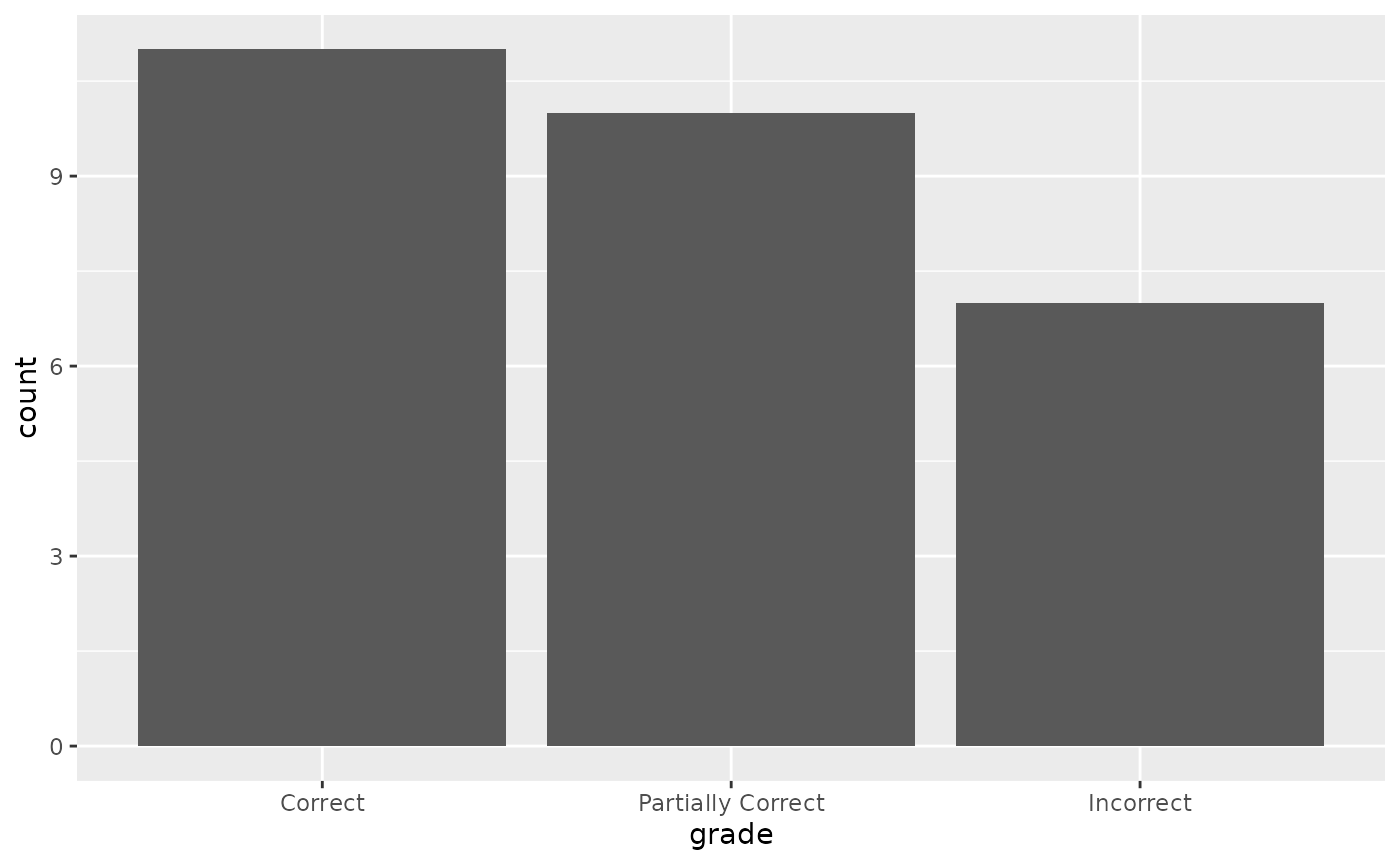
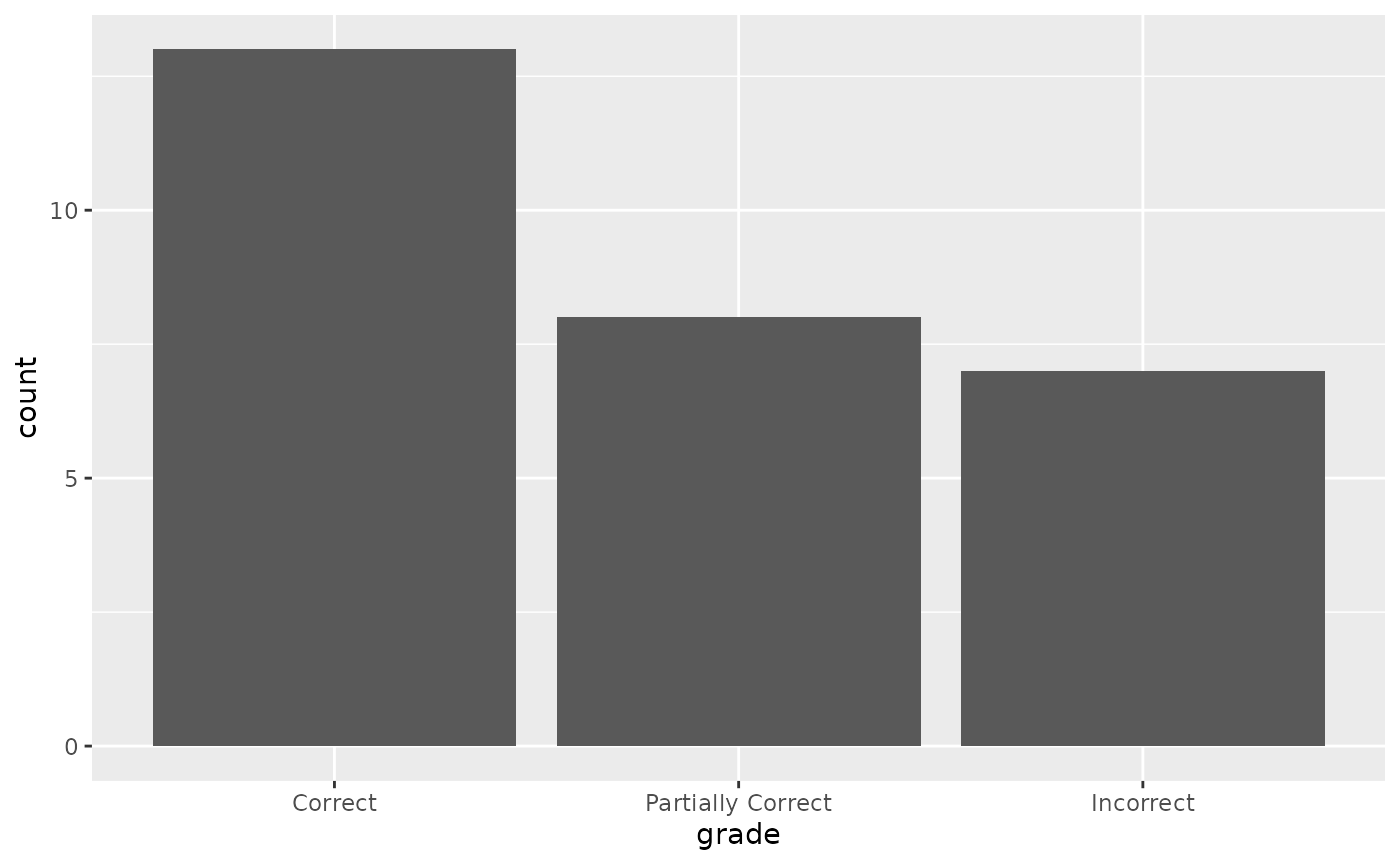
Deploying to gh-pages from @ simonpcouch/rinspect@f6243ad39c7b70e5270ee716d52705afe6b29448 🚀

diff --git a/reference/inspect_compare.html b/reference/inspect_compare.html
@@ -1,0 +1,133 @@
+<!DOCTYPE html>
+<!-- Generated by pkgdown: do not edit by hand --><html lang="en"><head><meta http-equiv="Content-Type" content="text/html; charset=UTF-8"><meta charset="utf-8"><meta http-equiv="X-UA-Compatible" content="IE=edge"><meta name="viewport" content="width=device-width, initial-scale=1, shrink-to-fit=no"><title>Compare two task evaluations — inspect_compare • rinspect</title><script src="../deps/jquery-3.6.0/jquery-3.6.0.min.js"></script><meta name="viewport" content="width=device-width, initial-scale=1, shrink-to-fit=no"><link href="../deps/bootstrap-5.3.1/bootstrap.min.css" rel="stylesheet"><script src="../deps/bootstrap-5.3.1/bootstrap.bundle.min.js"></script><link href="../deps/font-awesome-6.5.2/css/all.min.css" rel="stylesheet"><link href="../deps/font-awesome-6.5.2/css/v4-shims.min.css" rel="stylesheet"><script src="../deps/headroom-0.11.0/headroom.min.js"></script><script src="../deps/headroom-0.11.0/jQuery.headroom.min.js"></script><script src="../deps/bootstrap-toc-1.0.1/bootstrap-toc.min.js"></script><script src="../deps/clipboard.js-2.0.11/clipboard.min.js"></script><script src="../deps/search-1.0.0/autocomplete.jquery.min.js"></script><script src="../deps/search-1.0.0/fuse.min.js"></script><script src="../deps/search-1.0.0/mark.min.js"></script><!-- pkgdown --><script src="../pkgdown.js"></script><meta property="og:title" content="Compare two task evaluations — inspect_compare"><meta name="description" content="Compares performance metrics between two evaluations and calculates
+statistical measures of their differences."><meta property="og:description" content="Compares performance metrics between two evaluations and calculates
+statistical measures of their differences."></head><body>
+    <a href="#main" class="visually-hidden-focusable">Skip to contents</a>
+
+
+    <nav class="navbar navbar-expand-lg fixed-top bg-light" data-bs-theme="light" aria-label="Site navigation"><div class="container">
+
+    <a class="navbar-brand me-2" href="../index.html">rinspect</a>
+
+    <small class="nav-text text-muted me-auto" data-bs-toggle="tooltip" data-bs-placement="bottom" title="">0.0.0.9001</small>
+
+
+    <button class="navbar-toggler" type="button" data-bs-toggle="collapse" data-bs-target="#navbar" aria-controls="navbar" aria-expanded="false" aria-label="Toggle navigation">
+      <span class="navbar-toggler-icon"></span>
+    </button>
+
+    <div id="navbar" class="collapse navbar-collapse ms-3">
+      <ul class="navbar-nav me-auto"><li class="nav-item"><a class="nav-link" href="../articles/rinspect.html">Get started</a></li>
+<li class="active nav-item"><a class="nav-link" href="../reference/index.html">Reference</a></li>
+      </ul><ul class="navbar-nav"><li class="nav-item"><form class="form-inline" role="search">
+ <input class="form-control" type="search" name="search-input" id="search-input" autocomplete="off" aria-label="Search site" placeholder="Search for" data-search-index="../search.json"></form></li>
+<li class="nav-item"><a class="external-link nav-link" href="https://github.com/simonpcouch/rinspect/" aria-label="GitHub"><span class="fa fab fa-github fa-lg"></span></a></li>
+      </ul></div>
+
+
+  </div>
+</nav><div class="container template-reference-topic">
+<div class="row">
+  <main id="main" class="col-md-9"><div class="page-header">
+
+      <h1>Compare two task evaluations</h1>
+      <small class="dont-index">Source: <a href="https://github.com/simonpcouch/rinspect/blob/main/R/compare.R" class="external-link"><code>R/compare.R</code></a></small>
+      <div class="d-none name"><code>inspect_compare.Rd</code></div>
+    </div>
+
+    <div class="ref-description section level2">
+    <p>Compares performance metrics between two evaluations and calculates
+statistical measures of their differences.</p>
+    </div>
+
+    <div class="section level2">
+    <h2 id="ref-usage">Usage<a class="anchor" aria-label="anchor" href="#ref-usage"></a></h2>
+    <div class="sourceCode"><pre class="sourceCode r"><code><span><span class="fu">inspect_compare</span><span class="op">(</span><span class="va">x</span>, <span class="va">y</span>, conf_level <span class="op">=</span> <span class="fl">0.95</span><span class="op">)</span></span></code></pre></div>
+    </div>
+
+    <div class="section level2">
+    <h2 id="arguments">Arguments<a class="anchor" aria-label="anchor" href="#arguments"></a></h2>
+
+
+<dl><dt id="arg-x-y">x, y<a class="anchor" aria-label="anchor" href="#arg-x-y"></a></dt>
+<dd><p><a href="Task.html">Task</a> objects arising from the same call to <code>Task$new()</code>.</p></dd>
+
+
+<dt id="arg-conf-level">conf_level<a class="anchor" aria-label="anchor" href="#arg-conf-level"></a></dt>
+<dd><p>Optional. A single numeric value between 0 and 1
+representing the confidence level. Defaults to 0.95.</p></dd>
+
+</dl></div>
+    <div class="section level2">
+    <h2 id="value">Value<a class="anchor" aria-label="anchor" href="#value"></a></h2>
+    <p>A list containing statistics comparing the two task results</p><ul><li><p><code>mean_x</code>: The mean score of the first task evaluation (<code>x</code>).</p></li>
+<li><p><code>mean_y</code>: The mean score of the second task evaluation (<code>y</code>).</p></li>
+<li><p><code>mean_diff</code>: The mean difference between scores (<code>x</code> - <code>y</code>).</p></li>
+<li><p><code>paired_se</code>: The standard error of the paired differences.</p></li>
+<li><p><code>conf_int</code>: A vector containing the lower and upper bounds of the
+confidence interval for the mean difference.</p></li>
+</ul><p>The function will error if the tasks have different
+<code>task_id</code>s or different numbers of samples.</p>
+    </div>
+    <div class="section level2">
+    <h2 id="details">Details<a class="anchor" aria-label="anchor" href="#details"></a></h2>
+    <p>The statistics reported here are based on Section 4, <em>Comparing models</em> in
+"Adding Error Bars to Evals: A Statistical Approach to Language Model
+Evaluations." Miller (2024), <a href="https://arxiv.org/abs/2411.00640" class="external-link">https://arxiv.org/abs/2411.00640</a>.</p>
+<p>Notably, confidence intervals are based on Equations (7) and (5) with
+no clustering variable, and Equation (8) with clustering variables.
+Epochs are treated as clustering variables, i.e. multiple samples based on
+a given question are considered clustered.</p>
+    </div>
+
+    <div class="section level2">
+    <h2 id="ref-examples">Examples<a class="anchor" aria-label="anchor" href="#ref-examples"></a></h2>
+    <div class="sourceCode"><pre class="sourceCode r"><code><span class="r-in"><span><span class="kw">if</span> <span class="op">(</span><span class="op">!</span><span class="fu"><a href="https://rdrr.io/r/base/identical.html" class="external-link">identical</a></span><span class="op">(</span><span class="fu"><a href="https://rdrr.io/r/base/Sys.getenv.html" class="external-link">Sys.getenv</a></span><span class="op">(</span><span class="st">"ANTHROPIC_API_KEY"</span><span class="op">)</span>, <span class="st">""</span><span class="op">)</span> <span class="op">&amp;&amp;</span></span></span>
+<span class="r-in"><span>    <span class="op">!</span><span class="fu"><a href="https://rdrr.io/r/base/identical.html" class="external-link">identical</a></span><span class="op">(</span><span class="fu"><a href="https://rdrr.io/r/base/Sys.getenv.html" class="external-link">Sys.getenv</a></span><span class="op">(</span><span class="st">"OPENAI_API_KEY"</span><span class="op">)</span>, <span class="st">""</span><span class="op">)</span><span class="op">)</span> <span class="op">{</span></span></span>
+<span class="r-in"><span>  <span class="kw"><a href="https://rdrr.io/r/base/library.html" class="external-link">library</a></span><span class="op">(</span><span class="va"><a href="https://ellmer.tidyverse.org" class="external-link">ellmer</a></span><span class="op">)</span></span></span>
+<span class="r-in"><span>  <span class="kw"><a href="https://rdrr.io/r/base/library.html" class="external-link">library</a></span><span class="op">(</span><span class="va"><a href="https://tibble.tidyverse.org/" class="external-link">tibble</a></span><span class="op">)</span></span></span>
+<span class="r-in"><span></span></span>
+<span class="r-in"><span>  <span class="va">simple_addition</span> <span class="op">&lt;-</span> <span class="fu"><a href="https://tibble.tidyverse.org/reference/tibble.html" class="external-link">tibble</a></span><span class="op">(</span></span></span>
+<span class="r-in"><span>    input <span class="op">=</span> <span class="fu"><a href="https://rdrr.io/r/base/c.html" class="external-link">c</a></span><span class="op">(</span><span class="st">"What's 2+2?"</span>, <span class="st">"What's 2+3?"</span><span class="op">)</span>,</span></span>
+<span class="r-in"><span>    target <span class="op">=</span> <span class="fu"><a href="https://rdrr.io/r/base/c.html" class="external-link">c</a></span><span class="op">(</span><span class="st">"4"</span>, <span class="st">"5"</span><span class="op">)</span></span></span>
+<span class="r-in"><span>  <span class="op">)</span></span></span>
+<span class="r-in"><span></span></span>
+<span class="r-in"><span>  <span class="co"># notably, both of the evaluations passed to `inspect_compare()`</span></span></span>
+<span class="r-in"><span>  <span class="co"># will be based on the same call to `Task$new()`</span></span></span>
+<span class="r-in"><span>  <span class="va">tsk</span> <span class="op">&lt;-</span> <span class="va"><a href="Task.html">Task</a></span><span class="op">$</span><span class="fu">new</span><span class="op">(</span></span></span>
+<span class="r-in"><span>    dataset <span class="op">=</span> <span class="va">simple_addition</span>,</span></span>
+<span class="r-in"><span>    solver <span class="op">=</span> <span class="fu"><a href="generate.html">generate</a></span><span class="op">(</span><span class="op">)</span>,</span></span>
+<span class="r-in"><span>    scorer <span class="op">=</span> <span class="fu"><a href="scorer_model.html">model_graded_qa</a></span><span class="op">(</span><span class="op">)</span></span></span>
+<span class="r-in"><span>  <span class="op">)</span></span></span>
+<span class="r-in"><span></span></span>
+<span class="r-in"><span>  <span class="va">tsk_claude</span> <span class="op">&lt;-</span> <span class="va">tsk</span><span class="op">$</span><span class="fu">clone</span><span class="op">(</span><span class="op">)</span></span></span>
+<span class="r-in"><span>  <span class="va">tsk_claude</span><span class="op">$</span><span class="fu">eval</span><span class="op">(</span>solver_chat <span class="op">=</span> <span class="fu"><a href="https://ellmer.tidyverse.org/reference/chat_claude.html" class="external-link">chat_claude</a></span><span class="op">(</span><span class="op">)</span><span class="op">)</span></span></span>
+<span class="r-in"><span></span></span>
+<span class="r-in"><span>  <span class="va">tsk_openai</span> <span class="op">&lt;-</span> <span class="va">tsk</span><span class="op">$</span><span class="fu">clone</span><span class="op">(</span><span class="op">)</span></span></span>
+<span class="r-in"><span>  <span class="va">tsk_openai</span><span class="op">$</span><span class="fu">eval</span><span class="op">(</span>solver_chat <span class="op">=</span> <span class="fu"><a href="https://ellmer.tidyverse.org/reference/chat_openai.html" class="external-link">chat_openai</a></span><span class="op">(</span><span class="op">)</span><span class="op">)</span></span></span>
+<span class="r-in"><span></span></span>
+<span class="r-in"><span>  <span class="co"># do note that this is a rather silly comparison :)</span></span></span>
+<span class="r-in"><span>  <span class="fu">inspect_compare</span><span class="op">(</span><span class="va">tsk_claude</span>, <span class="va">tsk_openai</span><span class="op">)</span></span></span>
+<span class="r-in"><span><span class="op">}</span></span></span>
+</code></pre></div>
+    </div>
+  </main><aside class="col-md-3"><nav id="toc" aria-label="Table of contents"><h2>On this page</h2>
+    </nav></aside></div>
+
+
+    <footer><div class="pkgdown-footer-left">
+  <p>Developed by Simon Couch, Posit Software, PBC.</p>
+</div>
+
+<div class="pkgdown-footer-right">
+  <p>Site built with <a href="https://pkgdown.r-lib.org/" class="external-link">pkgdown</a> 2.1.1.</p>
+</div>
+
+    </footer></div>
+
+
+
+
+
+  </body></html>
+

diff --git a/articles/rinspect.html b/articles/rinspect.html
@@ -197,24 +197,34 @@ scoring steps. Here’s what the model responded to that first question
 with:</p>
 <div class="sourceCode" id="cb10"><pre class="downlit sourceCode r">
 <code class="sourceCode R"><span><span class="fu"><a href="https://rdrr.io/r/base/cat.html" class="external-link">cat</a></span><span class="op">(</span><span class="va">are_task</span><span class="op">$</span><span class="va">samples</span><span class="op">$</span><span class="va">result</span><span class="op">[</span><span class="fl">1</span><span class="op">]</span><span class="op">)</span></span></code></pre></div>
-<pre><code><span><span class="co">#&gt; I'll modify the code to show the proportion of diamonds with each cut</span></span>
-<span><span class="co">#&gt; instead of the count, while keeping the bars filled by clarity. To</span></span>
-<span><span class="co">#&gt; achieve this, I'll use `position = "fill"` in the `geom_bar()`</span></span>
-<span><span class="co">#&gt; function, which will normalize the heights of the bars so that each bar</span></span>
-<span><span class="co">#&gt; has a height of 1 (representing 100%).</span></span>
+<pre><code><span><span class="co">#&gt; # Converting Count to Proportion in a Stacked Bar Chart</span></span>
+<span><span class="co">#&gt; </span></span>
+<span><span class="co">#&gt; To change the bar chart so that each bar shows the proportion (relative</span></span>
+<span><span class="co">#&gt; frequency) of diamonds with each cut rather than the count, while still</span></span>
+<span><span class="co">#&gt; maintaining the stacked clarity breakdown, you need to modify the code</span></span>
+<span><span class="co">#&gt; to use proportions instead of raw counts.</span></span>
 <span><span class="co">#&gt; </span></span>
 <span><span class="co">#&gt; Here's the modified code:</span></span>
 <span><span class="co">#&gt; </span></span>
 <span><span class="co">#&gt; ```r</span></span>
 <span><span class="co">#&gt; ggplot(data = diamonds) +</span></span>
 <span><span class="co">#&gt; geom_bar(mapping = aes(x = cut, fill = clarity), position = "fill") +</span></span>
-<span><span class="co">#&gt; ylab("Proportion") # Adding a more appropriate y-axis label</span></span>
+<span><span class="co">#&gt; ylab("Proportion") +</span></span>
+<span><span class="co">#&gt; scale_y_continuous(labels = scales::percent)</span></span>
 <span><span class="co">#&gt; ```</span></span>
 <span><span class="co">#&gt; </span></span>
-<span><span class="co">#&gt; This change will make the y-axis represent the proportion (from 0 to 1)</span></span>
-<span><span class="co">#&gt; instead of counts. Each bar will have the same total height (1), and</span></span>
-<span><span class="co">#&gt; the segments within each bar will show the proportional representation</span></span>
-<span><span class="co">#&gt; of each clarity category within that cut.</span></span></code></pre>
+<span><span class="co">#&gt; ## What Changed:</span></span>
+<span><span class="co">#&gt; </span></span>
+<span><span class="co">#&gt; 1. Added `position = "fill"` to `geom_bar()` - This transforms the</span></span>
+<span><span class="co">#&gt; stacking to show proportions that sum to 1 for each cut category</span></span>
+<span><span class="co">#&gt; 2. Added `ylab("Proportion")` - This changes the y-axis label to</span></span>
+<span><span class="co">#&gt; reflect that we're now showing proportions</span></span>
+<span><span class="co">#&gt; 3. Added `scale_y_continuous(labels = scales::percent)` - This formats</span></span>
+<span><span class="co">#&gt; the y-axis values as percentages for better readability</span></span>
+<span><span class="co">#&gt; </span></span>
+<span><span class="co">#&gt; With these changes, each bar will have the same height (100%), and the</span></span>
+<span><span class="co">#&gt; colored segments will show the proportional distribution of clarity</span></span>
+<span><span class="co">#&gt; categories within each cut type.</span></span></code></pre>
 <p>The task also contains score information from the scoring step. We’ve
 used <code><a href="../reference/scorer_model.html">model_graded_qa()</a></code> as our scorer, which uses another
 model to evaluate the quality of our solver’s solutions against the
@@ -236,45 +246,37 @@ scoring. That said, it’s not without its faults. Here’s what the grading
 model thought of the response:</p>
 <div class="sourceCode" id="cb12"><pre class="downlit sourceCode r">
 <code class="sourceCode R"><span><span class="fu"><a href="https://rdrr.io/r/base/cat.html" class="external-link">cat</a></span><span class="op">(</span><span class="va">are_task</span><span class="op">$</span><span class="va">samples</span><span class="op">$</span><span class="va">scorer_chat</span><span class="op">[[</span><span class="fl">1</span><span class="op">]</span><span class="op">]</span><span class="op">$</span><span class="fu">last_turn</span><span class="op">(</span><span class="op">)</span><span class="op">@</span><span class="va">text</span><span class="op">)</span></span></code></pre></div>
-<pre><code><span><span class="co">#&gt; I need to assess whether the submission meets the specified criterion</span></span>
-<span><span class="co">#&gt; for showing the proportion of diamonds with a given cut corresponds to</span></span>
-<span><span class="co">#&gt; the bar height.</span></span>
+<pre><code><span><span class="co">#&gt; I need to evaluate whether the submission correctly addresses the task</span></span>
+<span><span class="co">#&gt; according to the specified criterion.</span></span>
 <span><span class="co">#&gt; </span></span>
-<span><span class="co">#&gt; The criterion states that the correct approach is to use:</span></span>
+<span><span class="co">#&gt; The task asks to change a bar chart so that the proportion of diamonds</span></span>
+<span><span class="co">#&gt; with a given cut corresponds to the bar height, while maintaining the</span></span>
+<span><span class="co">#&gt; clarity breakdown within each bar.</span></span>
+<span><span class="co">#&gt; </span></span>
+<span><span class="co">#&gt; The submission uses:</span></span>
+<span><span class="co">#&gt; ```r</span></span>
+<span><span class="co">#&gt; ggplot(data = diamonds) +</span></span>
+<span><span class="co">#&gt; geom_bar(mapping = aes(x = cut, fill = clarity), position = "fill") +</span></span>
+<span><span class="co">#&gt; ylab("Proportion") +</span></span>
+<span><span class="co">#&gt; scale_y_continuous(labels = scales::percent)</span></span>
 <span><span class="co">#&gt; ```</span></span>
+<span><span class="co">#&gt; </span></span>
+<span><span class="co">#&gt; According to the criterion, this approach is incorrect. Setting</span></span>
+<span><span class="co">#&gt; `position = "fill"` makes each bar have a height of 1 (or 100%),</span></span>
+<span><span class="co">#&gt; showing the proportion of clarity categories WITHIN each cut, not the</span></span>
+<span><span class="co">#&gt; proportion of each cut relative to the total number of diamonds.</span></span>
+<span><span class="co">#&gt; </span></span>
+<span><span class="co">#&gt; The correct approach according to the criterion should be:</span></span>
+<span><span class="co">#&gt; ```r</span></span>
 <span><span class="co">#&gt; ggplot(data = diamonds) +</span></span>
 <span><span class="co">#&gt; geom_bar(aes(x = cut, y = after_stat(count) / sum(after_stat(count)),</span></span>
 <span><span class="co">#&gt; fill = clarity))</span></span>
 <span><span class="co">#&gt; ```</span></span>
 <span><span class="co">#&gt; </span></span>
-<span><span class="co">#&gt; Or the deprecated but still functional:</span></span>
-<span><span class="co">#&gt; ```</span></span>
-<span><span class="co">#&gt; ggplot(data = diamonds) +</span></span>
-<span><span class="co">#&gt; geom_bar(aes(x = cut, y = ..count.. / sum(..count..), fill = clarity))</span></span>
-<span><span class="co">#&gt; ```</span></span>
-<span><span class="co">#&gt; </span></span>
-<span><span class="co">#&gt; The submission instead uses:</span></span>
-<span><span class="co">#&gt; ```r</span></span>
-<span><span class="co">#&gt; ggplot(data = diamonds) +</span></span>
-<span><span class="co">#&gt; geom_bar(mapping = aes(x = cut, fill = clarity), position = "fill") +</span></span>
-<span><span class="co">#&gt; ylab("Proportion")</span></span>
-<span><span class="co">#&gt; ```</span></span>
-<span><span class="co">#&gt; </span></span>
-<span><span class="co">#&gt; The criterion explicitly states that "Simply setting `position =</span></span>
-<span><span class="co">#&gt; 'fill'` will result in each bar having a height of 1 and is not</span></span>
-<span><span class="co">#&gt; correct." This is because `position = "fill"` normalizes the heights</span></span>
-<span><span class="co">#&gt; within each cut category separately, making each bar's total height 1.</span></span>
-<span><span class="co">#&gt; This does not represent the proportion of all diamonds that have each</span></span>
-<span><span class="co">#&gt; cut type, but rather normalizes the clarity distribution within each</span></span>
-<span><span class="co">#&gt; cut.</span></span>
-<span><span class="co">#&gt; </span></span>
-<span><span class="co">#&gt; The correct solution calculates the proportion of each cut relative to</span></span>
-<span><span class="co">#&gt; the total number of diamonds, which is what `y = after_stat(count) /</span></span>
-<span><span class="co">#&gt; sum(after_stat(count))` achieves.</span></span>
-<span><span class="co">#&gt; </span></span>
-<span><span class="co">#&gt; Since the submitted solution uses exactly the approach that is</span></span>
-<span><span class="co">#&gt; explicitly stated as incorrect in the criterion, it does not meet the</span></span>
-<span><span class="co">#&gt; requirements.</span></span>
+<span><span class="co">#&gt; The submission's solution normalizes each cut category independently,</span></span>
+<span><span class="co">#&gt; resulting in equal-height bars showing the distribution of clarity</span></span>
+<span><span class="co">#&gt; within each cut. However, this doesn't show the proportion of diamonds</span></span>
+<span><span class="co">#&gt; with a given cut as requested in the task.</span></span>
 <span><span class="co">#&gt; </span></span>
 <span><span class="co">#&gt; GRADE: I</span></span></code></pre>
 </div>
@@ -314,8 +316,8 @@ vs. partially correct vs. incorrect answers:</p>
 <span>  <span class="fu"><a href="https://ggplot2.tidyverse.org/reference/aes.html" class="external-link">aes</a></span><span class="op">(</span>x <span class="op">=</span> <span class="va">grade</span><span class="op">)</span> <span class="op">+</span></span>
 <span>  <span class="fu"><a href="https://ggplot2.tidyverse.org/reference/geom_bar.html" class="external-link">geom_bar</a></span><span class="op">(</span><span class="op">)</span></span></code></pre></div>
 <p><img src="rinspect_files/figure-html/plot-1-1.png" alt="A ggplot2 bar plot, showing Claude was correct most of the time." width="700"></p>
-<p>Claude answered fully correctly in 11 out of 28 samples, and
-partially correctly 10 times. For me, this leads to all sorts of
+<p>Claude answered fully correctly in 13 out of 28 samples, and
+partially correctly 8 times. For me, this leads to all sorts of
 questions:</p>
 <ul>
 <li>Are there any models that are cheaper than Claude that would do just

diff --git a/reference/index.html b/reference/index.html
@@ -89,7 +89,7 @@
         </dt>
         <dd>Scoring with string detection</dd>
       </dl></div><div class="section level2">
-      <h2 id="store-view-and-deploy-evaluation-logs">Store, view, and deploy evaluation logs<a class="anchor" aria-label="anchor" href="#store-view-and-deploy-evaluation-logs"></a></h2>
+      <h2 id="store-view-deploy-and-compare-evaluation-logs">Store, view, deploy, and compare evaluation logs<a class="anchor" aria-label="anchor" href="#store-view-deploy-and-compare-evaluation-logs"></a></h2>
 
 
 
@@ -100,6 +100,12 @@
 
 
       <dl><dt>
+
+          <code><a href="inspect_log_dir.html">inspect_log_dir()</a></code> <code><a href="inspect_log_dir.html">inspect_log_dir_set()</a></code>
+
+        </dt>
+        <dd>The log directory</dd>
+      </dl><dl><dt>
 
           <code><a href="inspect_view.html">inspect_view()</a></code>
 
@@ -113,10 +119,10 @@
         <dd>Prepare logs for deployment</dd>
       </dl><dl><dt>
 
-          <code><a href="inspect_log_dir.html">inspect_log_dir()</a></code> <code><a href="inspect_log_dir.html">inspect_log_dir_set()</a></code>
+          <code><a href="inspect_compare.html">inspect_compare()</a></code>
 
         </dt>
-        <dd>The log directory</dd>
+        <dd>Compare two task evaluations</dd>
       </dl></div><div class="section level2">
       <h2 id="example-evals">Example Evals<a class="anchor" aria-label="anchor" href="#example-evals"></a></h2>
 

diff --git a/reference/scorer_model.html b/reference/scorer_model.html
@@ -164,8 +164,6 @@ The function that <code>model_graded_qa()</code>'s outputs can be passed directl
 <span class="r-msg co"><span class="r-pr">#&gt;</span> Using <span style="color: #00BB00;">model</span> = <span style="color: #0000BB;">"claude-3-7-sonnet-latest"</span>.</span>
 <span class="r-msg co"><span class="r-pr">#&gt;</span> [working] (0 + 0) -&gt; 1 -&gt; 1 | <span style="color: #00BB00;">■■■■■■■■■■■■■■■■                </span>  50%</span>
 <span class="r-msg co"><span class="r-pr">#&gt;</span> [working] (0 + 0) -&gt; 0 -&gt; 2 | <span style="color: #00BB00;">■■■■■■■■■■■■■■■■■■■■■■■■■■■■■■■ </span> 100%</span>
-<span class="r-msg co"><span class="r-pr">#&gt;</span> [working] (0 + 0) -&gt; 1 -&gt; 1 | <span style="color: #00BB00;">■■■■■■■■■■■■■■■■                </span>  50%</span>
-<span class="r-msg co"><span class="r-pr">#&gt;</span> [working] (0 + 0) -&gt; 0 -&gt; 2 | <span style="color: #00BB00;">■■■■■■■■■■■■■■■■■■■■■■■■■■■■■■■ </span> 100%</span>
 <span class="r-in"><span></span></span>
 </code></pre></div>
     </div>

diff --git a/reference/inspect_log_dir.html b/reference/inspect_log_dir.html
@@ -72,7 +72,7 @@ additionally sets it to a new value.</p>
 <span class="r-in"><span><span class="fu">inspect_log_dir_set</span><span class="op">(</span><span class="va">dir</span><span class="op">)</span></span></span>
 <span class="r-in"><span></span></span>
 <span class="r-in"><span><span class="fu">inspect_log_dir</span><span class="op">(</span><span class="op">)</span></span></span>
-<span class="r-out co"><span class="r-pr">#&gt;</span> [1] "/tmp/RtmpSqKQc9"</span>
+<span class="r-out co"><span class="r-pr">#&gt;</span> [1] "/tmp/RtmpXakPkW"</span>
 </code></pre></div>
     </div>
   </main><aside class="col-md-3"><nav id="toc" aria-label="Table of contents"><h2>On this page</h2>
